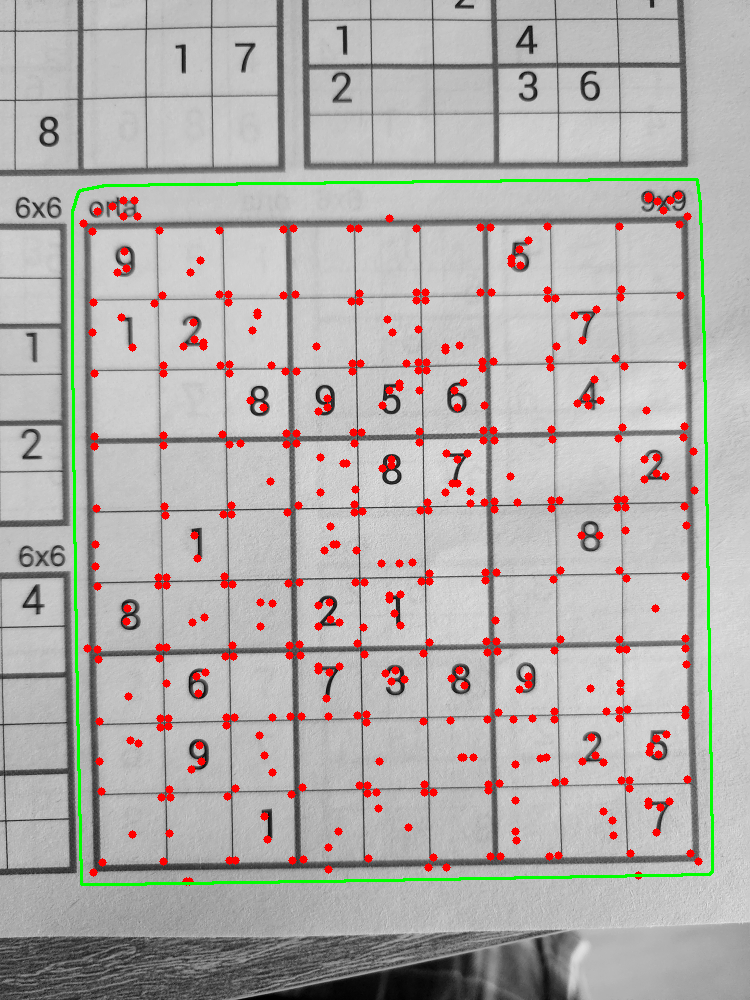
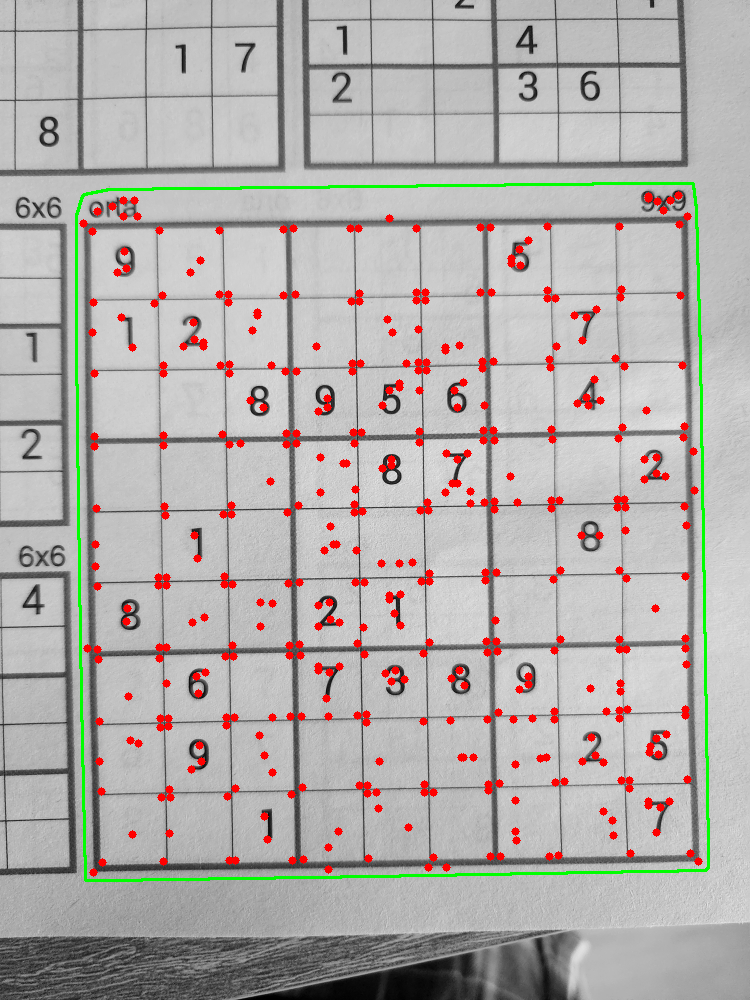
Keep only the largest component in region mask to exclude labels and neighbouring tables

Changed region(s): [[0.092, 0.186, 0.9507, 0.899], [0.4293, 0.155, 0.92, 0.186]]

diff --git a/sudoku_scan.py b/sudoku_scan.py
@@ -62,27 +62,31 @@ def draw_points(gray, points, color=(0, 0, 255), radius=6):
 
 def make_region_mask(grid_mask, margin_ratio=region_margin_ratio):
     """
-    Puzzle region from the line mask: close gaps, take the largest outer
-    contour, fill its convex hull and grow it a little. This is only a
-    region; the corner coordinates still come from Harris candidates.
+    Puzzle region from the line mask. Gaps are closed with a small kernel and
+    only the LARGEST connected component (the grid) is kept, so printed labels
+    such as "9x9" / "zor" and neighbouring tables, which are separate
+    components, stay outside. The convex hull of that component is filled and
+    grown a little. This is only a region; the corner coordinates still come
+    from Harris candidates.
     """
     h, w = grid_mask.shape[:2]
     k = max(3, int(round(min(h, w) * 0.01)) | 1)
-    kernel = np.ones((k, k), np.uint8)
-
-    closed = cv2.dilate(
-        cv2.morphologyEx(grid_mask, cv2.MORPH_CLOSE, kernel), kernel
+    closed = cv2.morphologyEx(
+        grid_mask, cv2.MORPH_CLOSE, np.ones((k, k), np.uint8)
     )
-    contours, _ = cv2.findContours(
-        closed, cv2.RETR_EXTERNAL, cv2.CHAIN_APPROX_SIMPLE
+
+    n, labels, stats, _ = cv2.connectedComponentsWithStats(
+        closed, connectivity=8
     )
 
     region = np.zeros((h, w), np.uint8)
-    if not contours:
+    if n <= 1:
         return region
 
-    largest = max(contours, key=cv2.contourArea)
-    cv2.fillConvexPoly(region, cv2.convexHull(largest), 255)
+    biggest = 1 + int(np.argmax(stats[1:, cv2.CC_STAT_AREA]))
+    ys, xs = np.nonzero(labels == biggest)
+    hull = cv2.convexHull(np.column_stack([xs, ys]).astype(np.int32))
+    cv2.fillConvexPoly(region, hull, 255)
 
     m = max(3, int(round(min(h, w) * margin_ratio)))
     return cv2.dilate(region, np.ones((2 * m + 1, 2 * m + 1), np.uint8))
